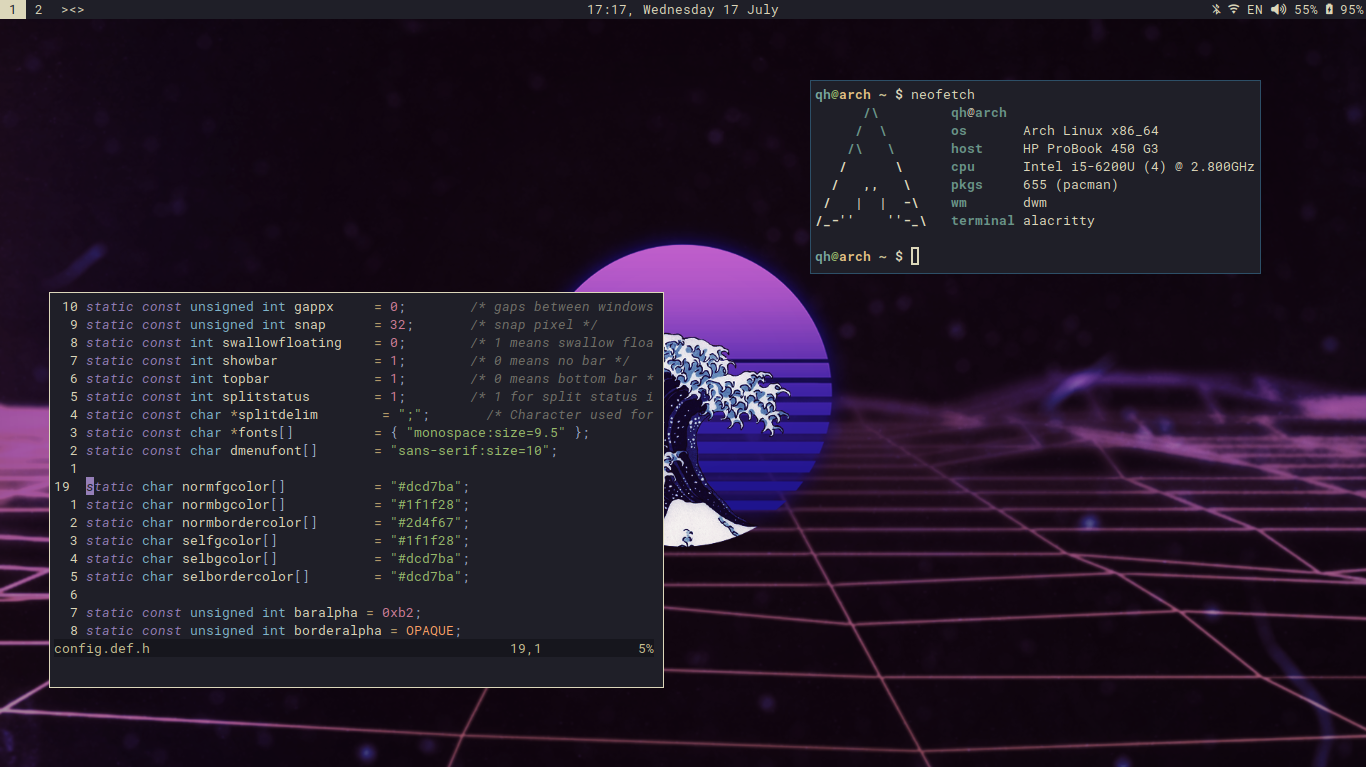
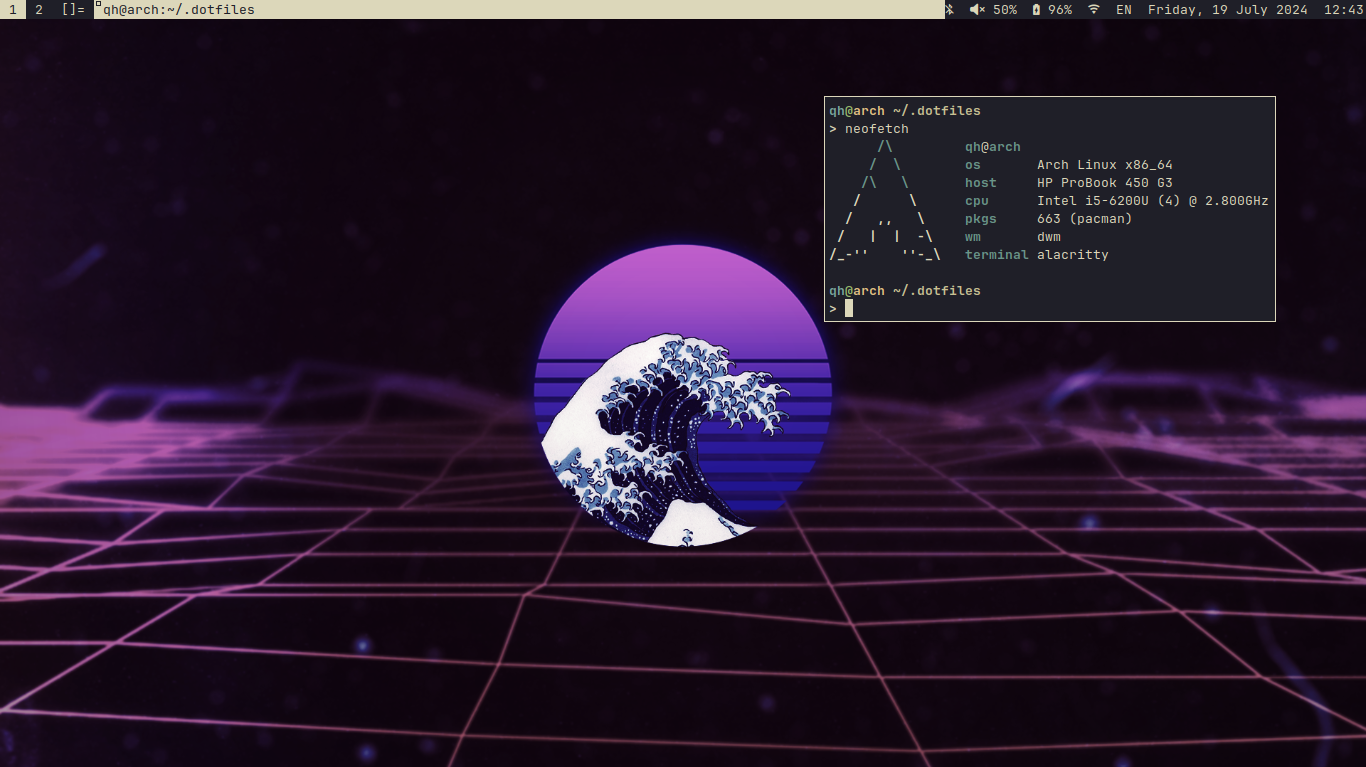
update

Changed region(s): [[0.0307, 0.3598, 0.4919, 0.8996], [0.5842, 0.09, 0.9531, 0.4198], [0.0307, 0.0, 1.0, 0.03]]

diff --git a/.config/suckless/dwm/config.def.h b/.config/suckless/dwm/config.def.h
@@ -11,7 +11,6 @@ static const int swallowfloating    = 0;        /* 1 means swallow floating wind
 static const int showbar            = 1;        /* 0 means no bar */
 static const int topbar             = 1;        /* 0 means bottom bar */
 static const char *fonts[]          = { "monospace:pixelsize=13" };
-static const char dmenufont[]       = "sans-serif:size=10";
 
 static char normfgcolor[]           = "#dcd7ba";
 static char normbgcolor[]           = "#1f1f28";
@@ -64,11 +63,6 @@ static const Layout layouts[] = {
 
 /* helper for spawning shell commands in the pre dwm-5.0 fashion */
 #define SHCMD(cmd) { .v = (const char*[]){ "/bin/sh", "-c", cmd, NULL } }
-
-/* commands */
-//static char dmenumon[2] = "0"; /* component of dmenucmd, manipulated in spawn() */
-//static const char *dmenucmd[] = { "dmenu_run", "-m", dmenumon, "-fn", dmenufont, "-nb", col_gray1, "-nf", col_gray3, "-sb", col_cyan, "-sf", col_gray4, NULL };
-//static const char *termcmd[]  = { "st", NULL };
 
 #include "movestack.c"
 static const Key keys[] = {
